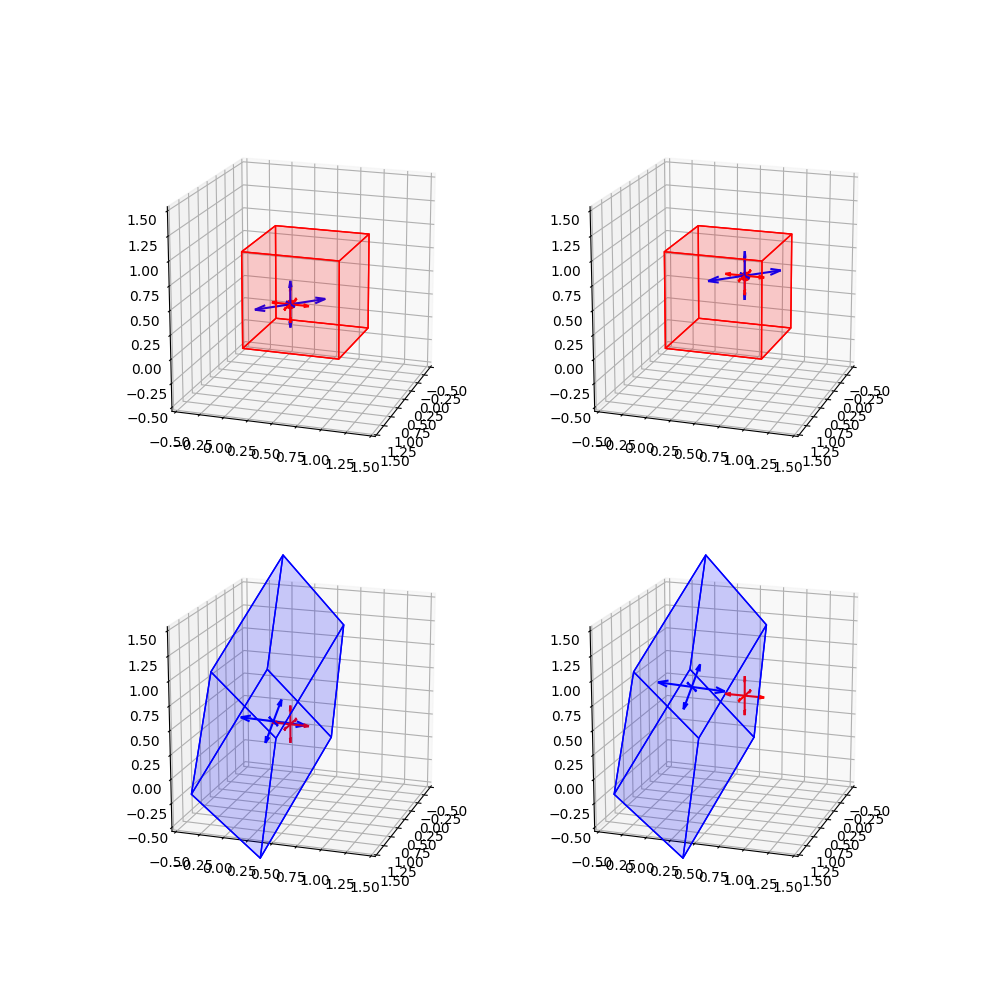
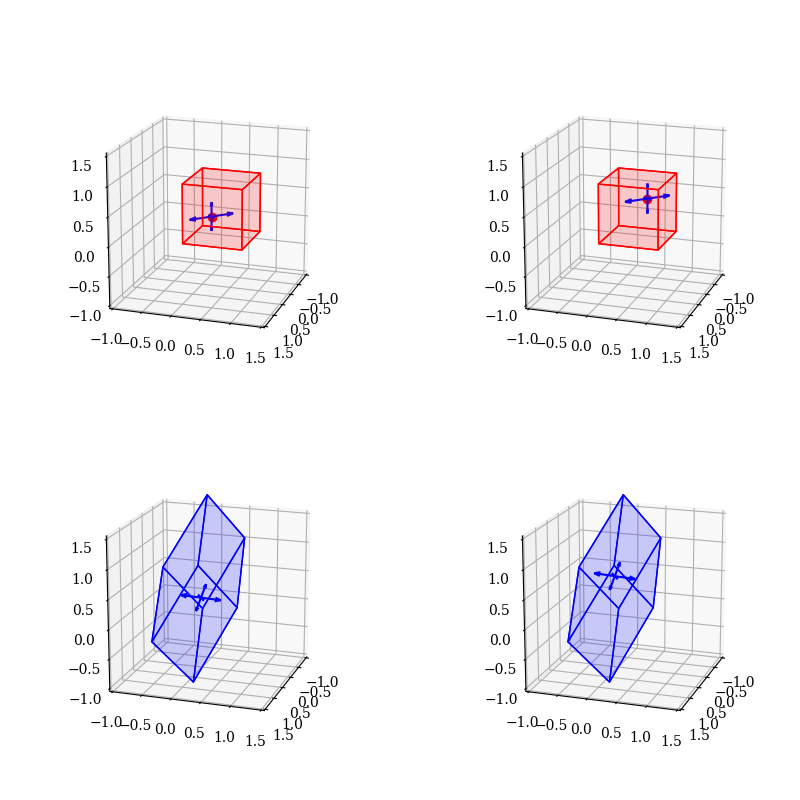
hw final form

diff --git a/homework/shape_function.py b/homework/shape_function.py
@@ -6,8 +6,30 @@ from mpl_toolkits.mplot3d.art3d import Poly3DCollection
 import matplotlib.animation as animation
 import numpy as np
 from scipy.linalg import polar
+from scipy.spatial.transform import Rotation as Rot
 import math
 
+SIZE=10
+# Latex interpretation for plots
+plt.rcParams.update({'font.size': SIZE})
+#plt.rcParams['text.usetex'] = True
+plt.rcParams['font.family'] = 'DejaVu Serif'
+plt.rcParams["mathtext.fontset"] = "cm"
+plt.rcParams["figure.subplot.left"] = 0.045
+plt.rcParams["figure.subplot.bottom"] = 0.08
+plt.rcParams["figure.subplot.right"] = 0.995
+plt.rcParams["figure.subplot.top"] = 0.891
+plt.rcParams["figure.subplot.wspace"] = 0.21
+plt.rcParams["figure.subplot.hspace"] = 0.44
+plt.rcParams['figure.figsize'] = 8,8 #
+plt.rc('font', size=SIZE)            # controls default text sizes
+plt.rc('axes', titlesize=SIZE)       # fontsize of the axes title
+plt.rc('axes', labelsize=SIZE)       # fontsize of the x and y labels
+plt.rc('xtick', labelsize=SIZE)      # fontsize of the tick labels
+plt.rc('ytick', labelsize=SIZE)      # fontsize of the tick labels
+plt.rc('legend', fontsize=SIZE)      # legend fontsize
+plt.rc('figure', titlesize=SIZE)     #
+#
 def coordinate_axis(ax,ori,leng = 0.2,offset_text=1.6,col="k",
             lw= 1, offset= np.array([0.01,0,-0.0001]), 
             axis_basis = [[1,0,0],[0,1,0],[0,0,1]],
@@ -57,7 +79,7 @@ def coordinate_axis(ax,ori,leng = 0.2,offset_text=1.6,col="k",
 
 def jacks(ax,start,leng=[1,1,1],sc=0.2,basis=[[1,0,0],[0,1,0],[0,0,1]],col="k"):
     for ind,eig in enumerate(basis):
-        print(sc*leng[ind])
+        #print(sc*leng[ind])
         ax.quiver(start[0],start[1],start[2],
                 eig[0],eig[1],eig[2]
                 ,length=sc*leng[ind]
@@ -129,9 +151,6 @@ def shape_diff(input,xyz,lengths=[1,1,1]):
                         (1-xi/l1)*(  eta/l2)*( 1/l3), #7
                         (  xi/l1)*(  eta/l2)*( 1/l3)])#8
     #
-    print(dN_xi)
-    print(dN_eta)
-    print(dN_zeta)
     #print(len(dN_zeta.T),len(xyz[0]),l1)
     F11= np.matmul(dN_xi,xyz[0])
     F12= np.matmul(dN_xi,xyz[1])
@@ -153,9 +172,9 @@ def shape_diff(input,xyz,lengths=[1,1,1]):
 def mapping(fin_shape,poi):
     x_fin,y_fin,z_fin=fin_shape
     shape = shape_quad_8(poi)
-    print("x=",np.dot(np.array(x_fin),shape))
-    print("y=",np.dot(np.array(y_fin),shape))
-    print("z=",np.dot(np.array(z_fin),shape))
+    #print("x=",np.dot(np.array(x_fin),shape))
+    #print("y=",np.dot(np.array(y_fin),shape))
+    #print("z=",np.dot(np.array(z_fin),shape))
     v1 = np.dot(np.array(x_fin),shape)
     v2 = np.dot(np.array(y_fin),shape)
     v3 = np.dot(np.array(z_fin),shape)
@@ -168,7 +187,19 @@ def print_latex(matrix,val):
     for val in matrix:
         print("  &".join(str(val)[1:-1].split()),"\\\\")
     print("\end{bmatrix}\\\\")
-   
+   ##
+def normalize_vector(vect,magnitude=False):
+    value= 0
+    final = vect
+    for i in vect:
+        value+=(i**2)
+    mag=(value)**0.5
+    for i in range(len(vect)):
+        final[i] = final[i]/mag
+    if magnitude:
+        return [final,mag]
+    else:
+        return final
 
 def draw_cube(ax,X,Y,Z,col="r",alp=0.1):
     # assume kasmer numbering
@@ -199,27 +230,32 @@ order_coos=[0,2,4,1]
 
 destination = "."
 show = True
-show = False
+#show = False
 #
+ini_col = "r"
+fin_col = "b"
+ele,azi = vect_to_azim_elev([3,1,1])
+start = -1
+end= 1.5
 
 #
 # import text file names for later use
 dirs =[ i for i in os.listdir(".") if i.endswith(".txt")]
 dirs.sort()
-print(dirs)
-
+#print(dirs)
 for i in range(0,3,1):
+    figure_ext = plt.figure()
+    ax_side  = figure_ext.add_subplot(111,projection='3d')
+    ax_side.view_init(elev=ele, azim=azi)
+    ax_side.set_xlim([start,end])
+    ax_side.set_ylim([start,end])
+    ax_side.set_zlim([start,end])
     print(dirs[i])
-    fig,axs = plt.subplots(2,2,figsize=(10,10),subplot_kw=dict(projection='3d'))
+    fig,axs = plt.subplots(2,2,subplot_kw=dict(projection='3d'))
     axs = axs.flatten()
-    print(axs)
+    #print(axs)
     #exit(0)
     #
-    ini_col = "r"
-    fin_col = "b"
-    ele,azi = vect_to_azim_elev([3,1,1])
-    start = -0.5
-    end= 1.5
     #
     #
     x_fin,y_fin,z_fin = np.loadtxt(dirs[i])
@@ -234,6 +270,7 @@ for i in range(0,3,1):
         # plot cube
         #draw_cube(ax,X,Y,Z,col=ini_col)
         draw_cube(ax0,X,Y,Z,col=ini_col)
+        draw_cube(ax_side,X,Y,Z,col=ini_col)
         #draw_cube(ax1,X,Y,Z,col=ini_col)
         # plot given final coordinates
         #draw_cube(ax,x_fin,y_fin,z_fin,col=fin_col)
@@ -242,7 +279,7 @@ for i in range(0,3,1):
 
         F = shape_diff(poi,[x_fin,y_fin,z_fin]).T
 
-        print(np.matmul(F.T,F))
+        #print(np.matmul(F.T,F))
         print_latex(F,"F")
         print("J&=",np.linalg.det(F),"\\\\")
         #
@@ -253,6 +290,11 @@ for i in range(0,3,1):
         R,U = polar(F,side="right")
         #
         #exit(0)
+        rotations= Rot.from_matrix(R).as_rotvec()
+        print("************\n")
+        print(normalize_vector(rotations,magnitude=True))
+        print("************\n")
+        print("************\n")
         #print(np.matmul(R,R.T))
         # R.R.T ==I
         v_calc = np.matmul(np.matmul(R,U),R.T)
@@ -266,36 +308,77 @@ for i in range(0,3,1):
         #ax.plot(poi[0],poi[1],poi[2],ini_col+"o")
         ax0.plot(poi[0],poi[1],poi[2],ini_col+"o")
 
+        ###
+        
+        ax_side.plot(poi[0],poi[1],poi[2],ms=200)
+        x_f,y_f,z_f= np.matmul(U, np.array([X,Y,Z]))
+        draw_cube(ax_side,x_f,y_f,z_f,col="y")
+        x_f,y_f,z_f= np.matmul(R, np.array([x_f,y_f,z_f]))
+        draw_cube(ax_side,x_f,y_f,z_f,col="b")
+        
+        ax_side.plot(poi[0],poi[1],poi[2],ms=200)
+        x_f,y_f,z_f= np.matmul(U, np.array([X,Y,Z]))
+        draw_cube(ax_side,x_f,y_f,z_f,col="y")
+        x_f,y_f,z_f= np.matmul(R, np.array([x_f,y_f,z_f]))
+        draw_cube(ax_side,x_f,y_f,z_f,col="b")
 
+        val1 = [poi]
+
+        x_f,y_f,z_f= np.matmul(U, np.array(poi).T)
+        print(x_f,y_f,z_f)
+        val1.append([x_f,y_f,z_f])
+        x_f,y_f,z_f= np.matmul(R, np.array([x_f,y_f,z_f]))
+        val1.append([x_f,y_f,z_f])
+
+        val1 = np.array(val1).T
+        print(x_f,y_f,z_f,"ko-")
+        ax_side.plot(val1[0],val1[1],val1[2],"ro-")
+
+        #######
+        val1 = [poi]
+        #######
+        x_f,y_f,z_f= np.matmul(R, np.array(poi).T)
+        print(x_f,y_f,z_f)
+        val1.append([x_f,y_f,z_f])
+        x_f,y_f,z_f= np.matmul(V, np.array([x_f,y_f,z_f]))
+        val1.append([x_f,y_f,z_f])
+        #
+        val1 = np.array(val1).T
+        print(x_f,y_f,z_f)
+        ax_side.plot(val1[0],val1[1],val1[2],"bo-")
+        ###
         v1,v2,v3 = mapping([x_fin,y_fin,z_fin],poi)
         #ax.plot(v1,v2,v3,fin_col+"o")
 
         eig_vals,eig_vect = np.linalg.eig(V)
+        print_latex(eig_vect,"V_E")
+        print("V",eig_vals)
         jacks(ax1,[v1,v2,v3],eig_vals,basis=eig_vect,col=fin_col)
-        jacks(ax1,poi,col=ini_col)        
+        #jacks(ax1,poi,col=ini_col)        
 
+        F = shape_diff(poi,[x_fin,y_fin,z_fin]).T
         eig_vals,eig_vect = np.linalg.eig(U)
+        print("U",eig_vals)
+        print_latex(eig_vect,"U_E")
         jacks(ax0,poi,eig_vals,basis=eig_vect,col=fin_col)
-        jacks(ax0,poi,col=ini_col)        
+        #jacks(ax0,poi,col=ini_col)        
         #
         #exit(0)
-    #
+    print("\n\n")
     for ax in axs:
         #
-        ax.set_proj_type("persp")
+        #ax.set_proj_type("persp")
         ax.set_aspect("equal")
         ax.set_box_aspect(aspect = (2,2,2))
-        print("vals are",ele,azi)
         ax.view_init(elev=ele, azim=azi)
         ax.set_xlim([start,end])
         ax.set_ylim([start,end])
         ax.set_zlim([start,end])
     plt.grid(False)
-
     if show:
         plt.show()
     else:
-        #fig.savefig("funda_region")
+        #figure_ext.savefig("box"+str(i)+".png")
         fig.savefig(str(i)+"box.png",dpi=100)
         #fig.savefig("funda_region_zoomed_grain_id_"+str(grain_id))
 
